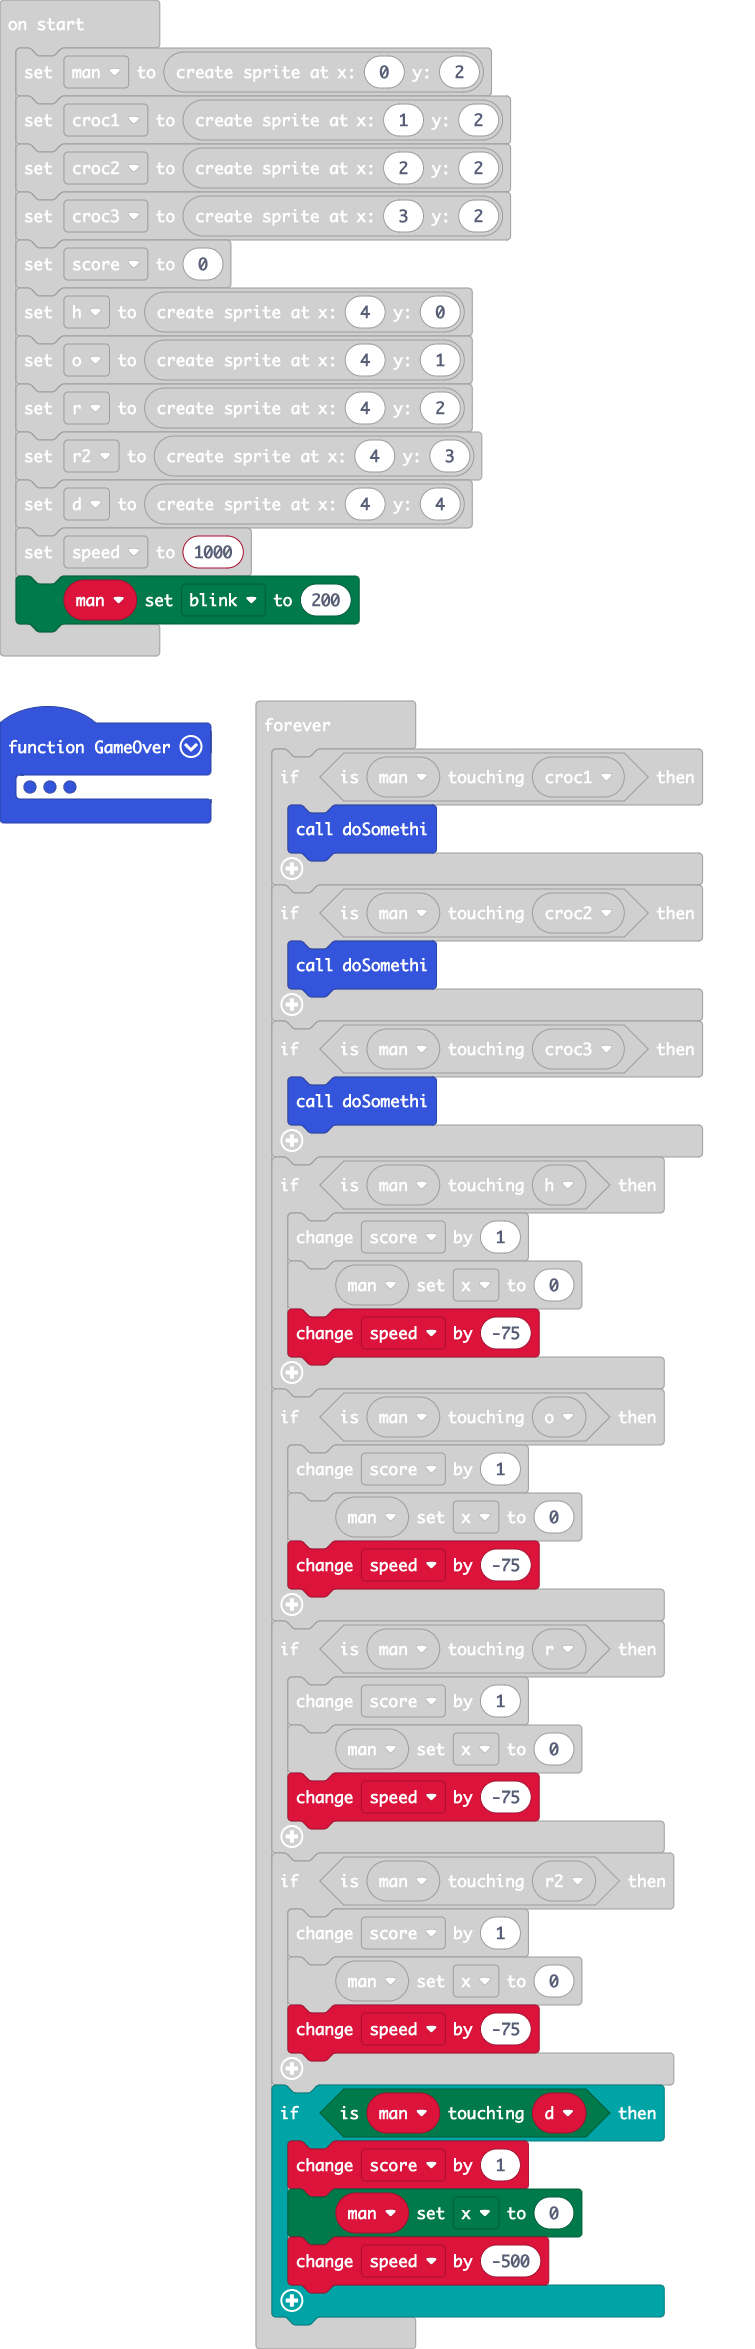
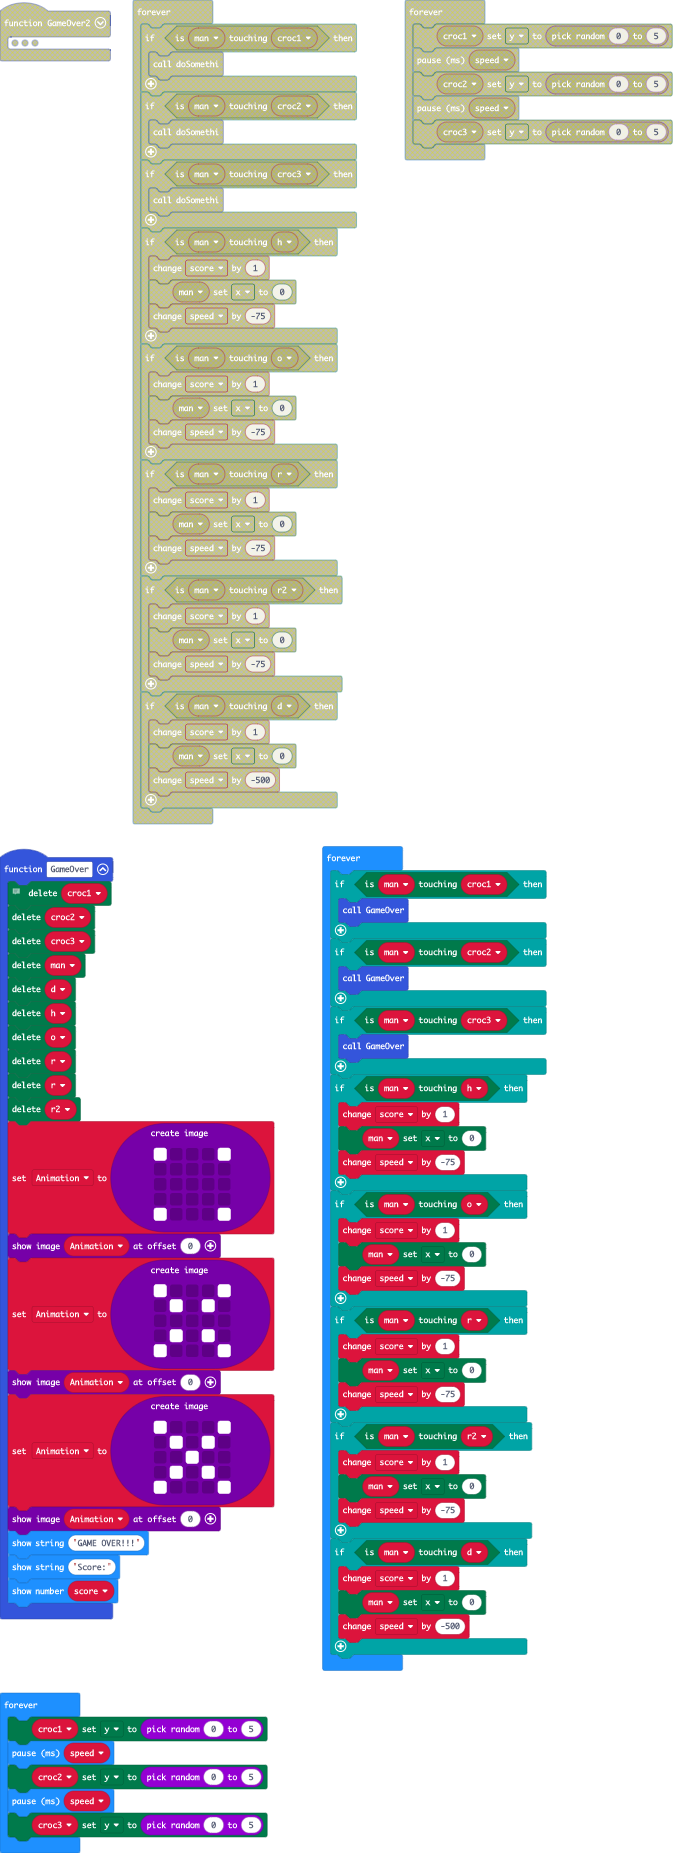
Update main.blocks, main.ts

diff --git a/main.ts b/main.ts
@@ -22,10 +22,6 @@ function GameOver () {
     r.delete()
     r.delete()
     r2.delete()
-    music.setBuiltInSpeakerEnabled(true)
-    for (let index = 0; index < 4; index++) {
-        music.startMelody(music.builtInMelody(Melodies.Dadadadum), MelodyOptions.Once)
-    }
     Animation = images.createImage(`
         # . . . #
         . . . . .
@@ -79,13 +75,13 @@ let speed = 1000
 man.set(LedSpriteProperty.Blink, 200)
 basic.forever(function () {
     if (man.isTouching(croc1)) {
-        doSomethi()
+        GameOver()
     }
     if (man.isTouching(croc2)) {
-        doSomethi()
+        GameOver()
     }
     if (man.isTouching(croc3)) {
-        doSomethi()
+        GameOver()
     }
     if (man.isTouching(h)) {
         score += 1
